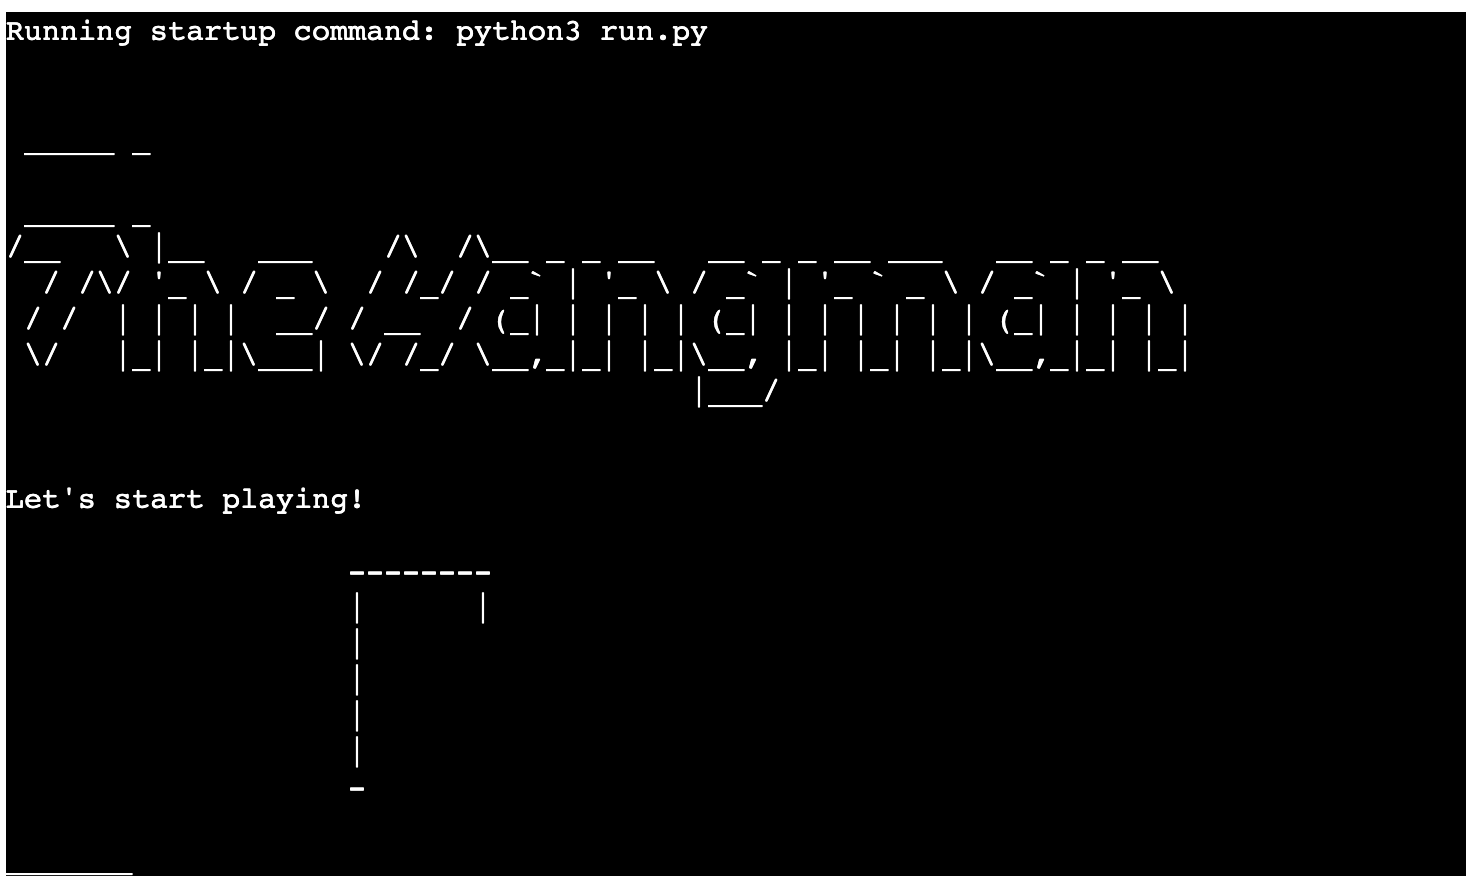
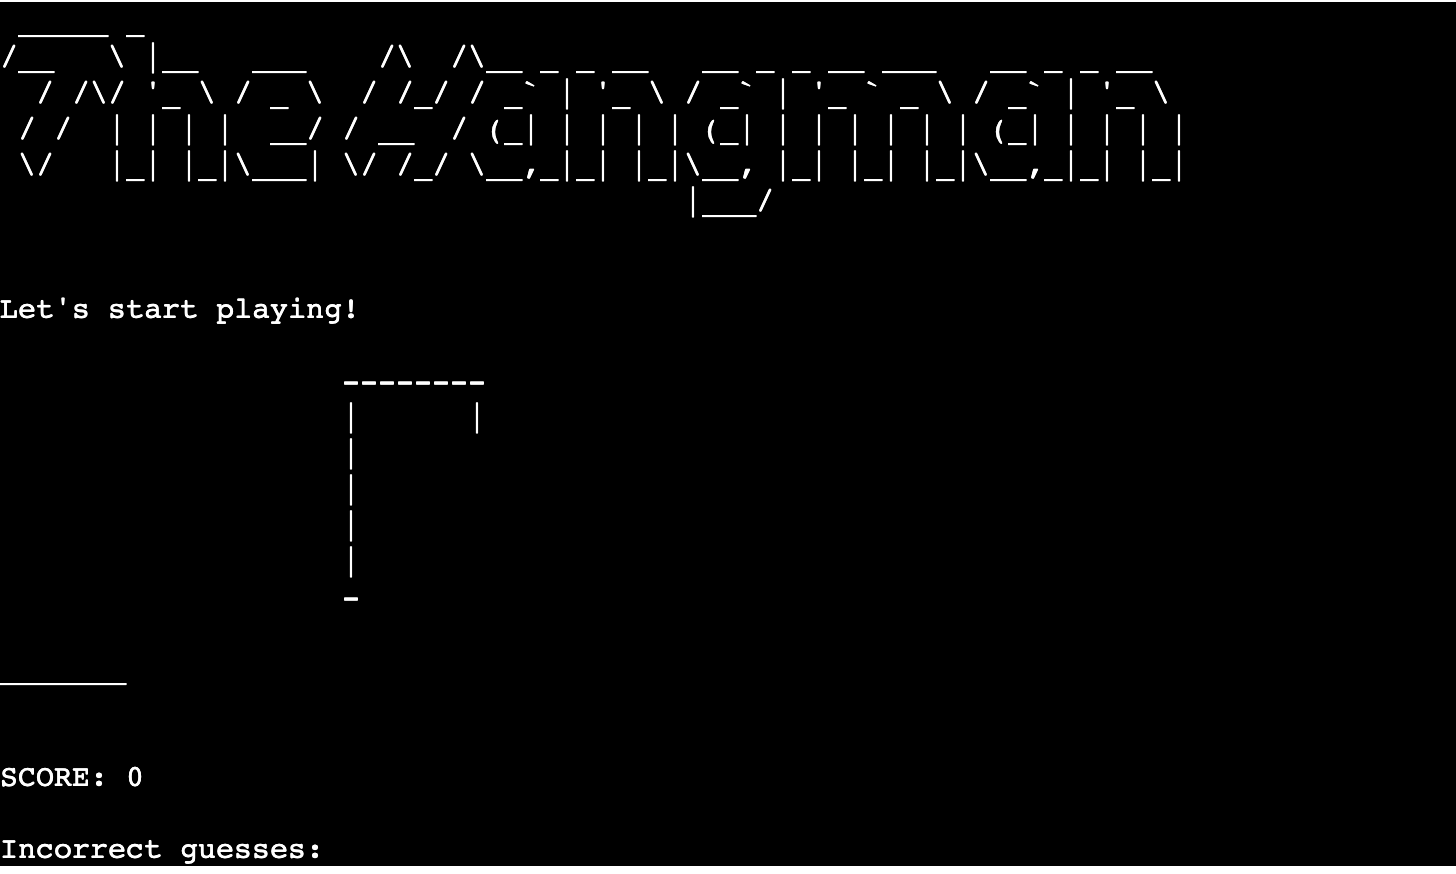
Update screenshots in README.md

diff --git a/README.md b/README.md
@@ -92,17 +92,17 @@ Project goals:
 
 - The user is welcomed to the game, the logo displays and they can input their name and ensure they are happy with their selected option.
 
-**Play**
-
-![Play](docs/features/play.png)
-
-- After selecting play the user is prompted to a screen with the hangman stage 1, different stages are displayed as the player progresses through the game.
-
 **Category selection**
 
 ![Select category](docs/features/category.png)
 
 - The user can choose a word category to play the game. When the user selects to start the game, the terminal displays options to select between different word categories which are grouped by theme.
+
+**Play**
+
+![Play](docs/features/play.png)
+
+- After selecting a category and confirming that they are happy to play the user is prompted to a screen with the hangman stage 1, different stages are displayed as the player progresses through the game.
 
 **Score counter**
 
@@ -112,7 +112,8 @@ Project goals:
 
 **Game over**
 
-![Game over](docs/features/game-over.png)
+![Game over art](docs/features/game-over-art.png)
+![Game over message](docs/features/game-over-message.png)
 
 - When losing a game, the name of the player, score and game over ASCII Art are displayed.
 
@@ -176,13 +177,11 @@ The language used is Python
 
 [Veed](https://www.veed.io/convert/mp4-to-gif?gad=1&gclid=CjwKCAjwgqejBhBAEiwAuWHioCzHSc5XTTdsnixrxavlvLKEi4i_YeN__Xol0nANQCBhw60caeyF3RoC31wQAvD_BwE) - To convert mp4 to gif
 
-[Colorama](https://pypi.org/project/colorama/) - To change colours in the terminal
-
 [Heroku](https://id.heroku.com/) - To deploy the App.
 
 [Code Institute template](https://github.com/Code-Institute-Org/p3-template) - To run the game in the terminal using Heroku.
 
-[ASCII Art Generator](https://patorjk.com/)
+[ASCII Art Generator](https://patorjk.com/) - To generate ASCII Art
 
 ## Deployment & Local Development
 
@@ -239,7 +238,7 @@ Please refer to [TESTING.md](TESTING.md) file for all testing carried out.
 
 - [How to build HANGMAN with Python in 10 MINUTES](https://www.youtube.com/watch?v=m4nEnsavl6w) - I used this tutorial to help me with understanding how to create a basic hangman game to build upon it using Python.
 
-- I used other student examples as a reference to understand how to build my own game and what is expected for the app and readme, [Hangman 1](https://github.com/PedroCristo/portfolio_project_3), [Hangman 2](https://github.com/one1189/hangman) those projects were also helpful to find resources that helped me build the game, such as the use of ASCII Art, Lucid Chart, Colorama or reference material.
+- I used other student examples as a reference to understand how to build my own game and what is expected for the app and readme, [Hangman 1](https://github.com/PedroCristo/portfolio_project_3), [Hangman 2](https://github.com/one1189/hangman) those projects were also helpful to find resources that helped me build the game, such as the use of ASCII Art, Lucid Chart, or other reference material.
 
 ### Content
 
